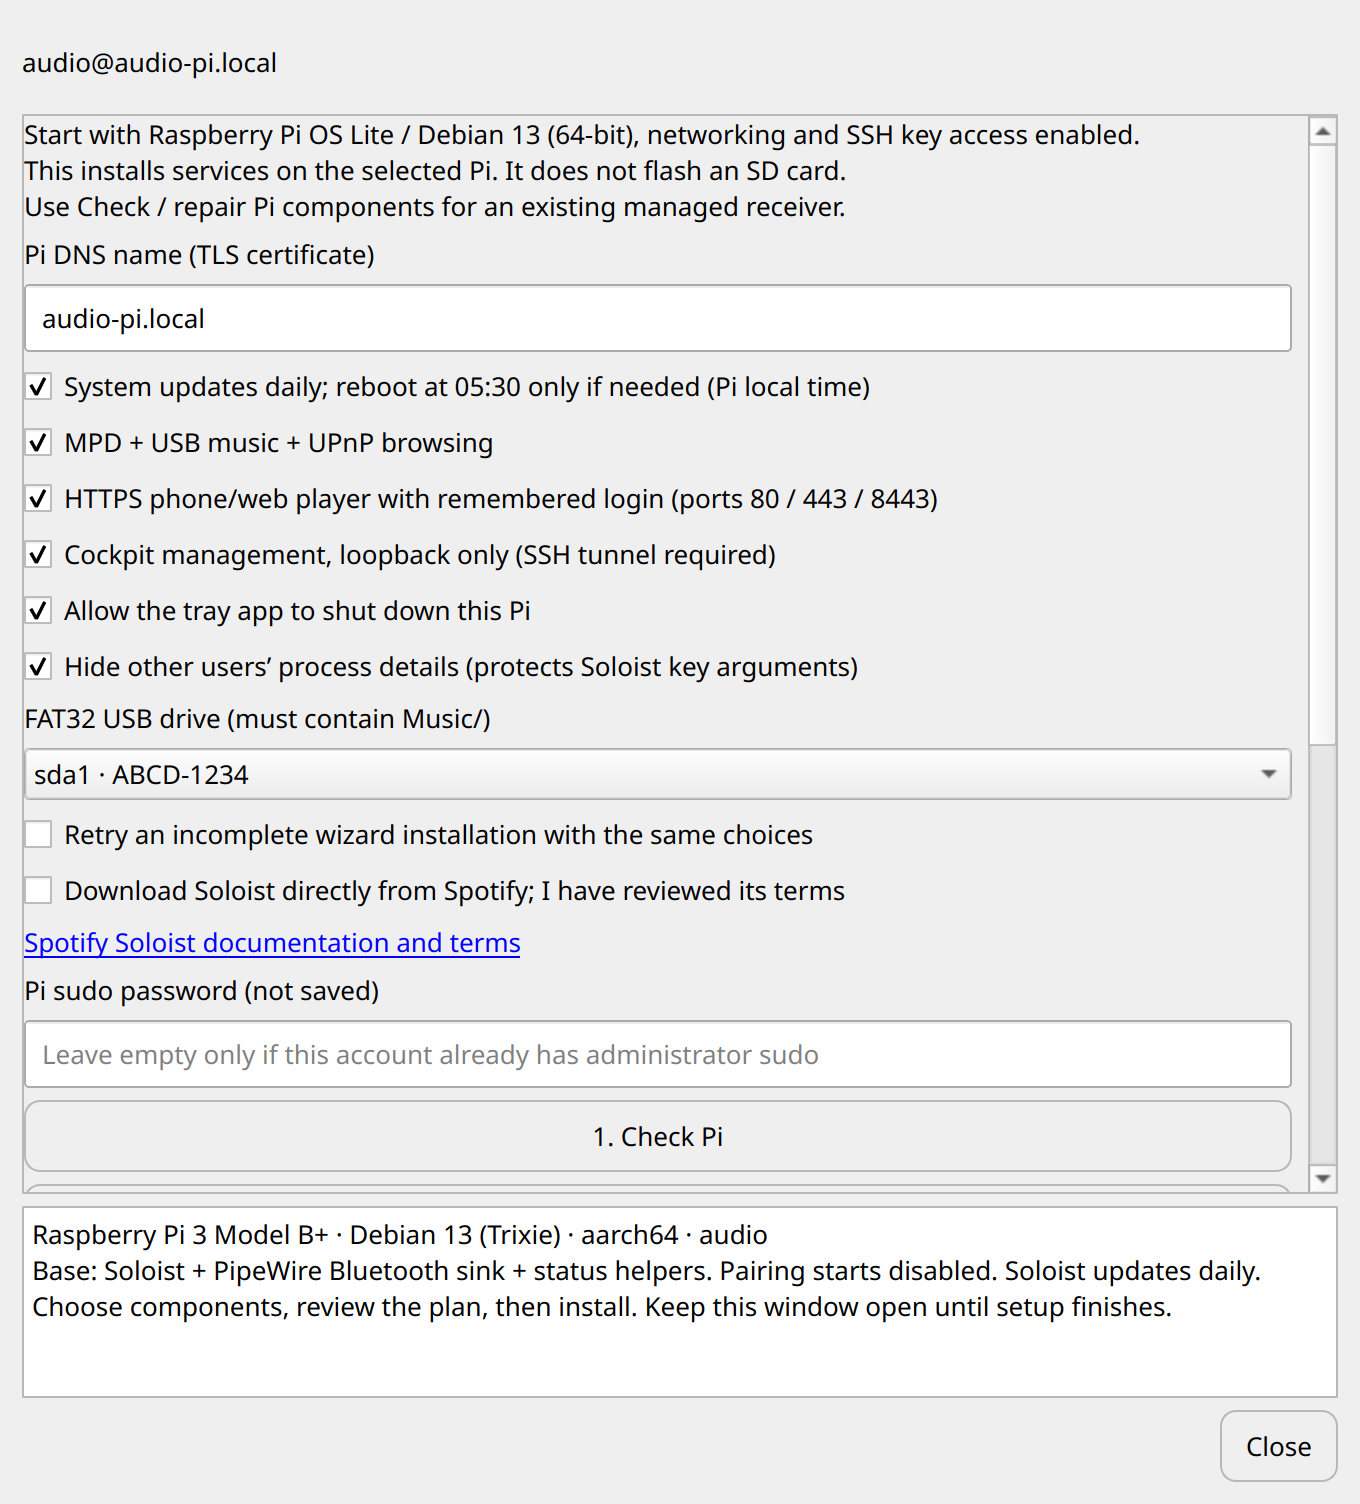
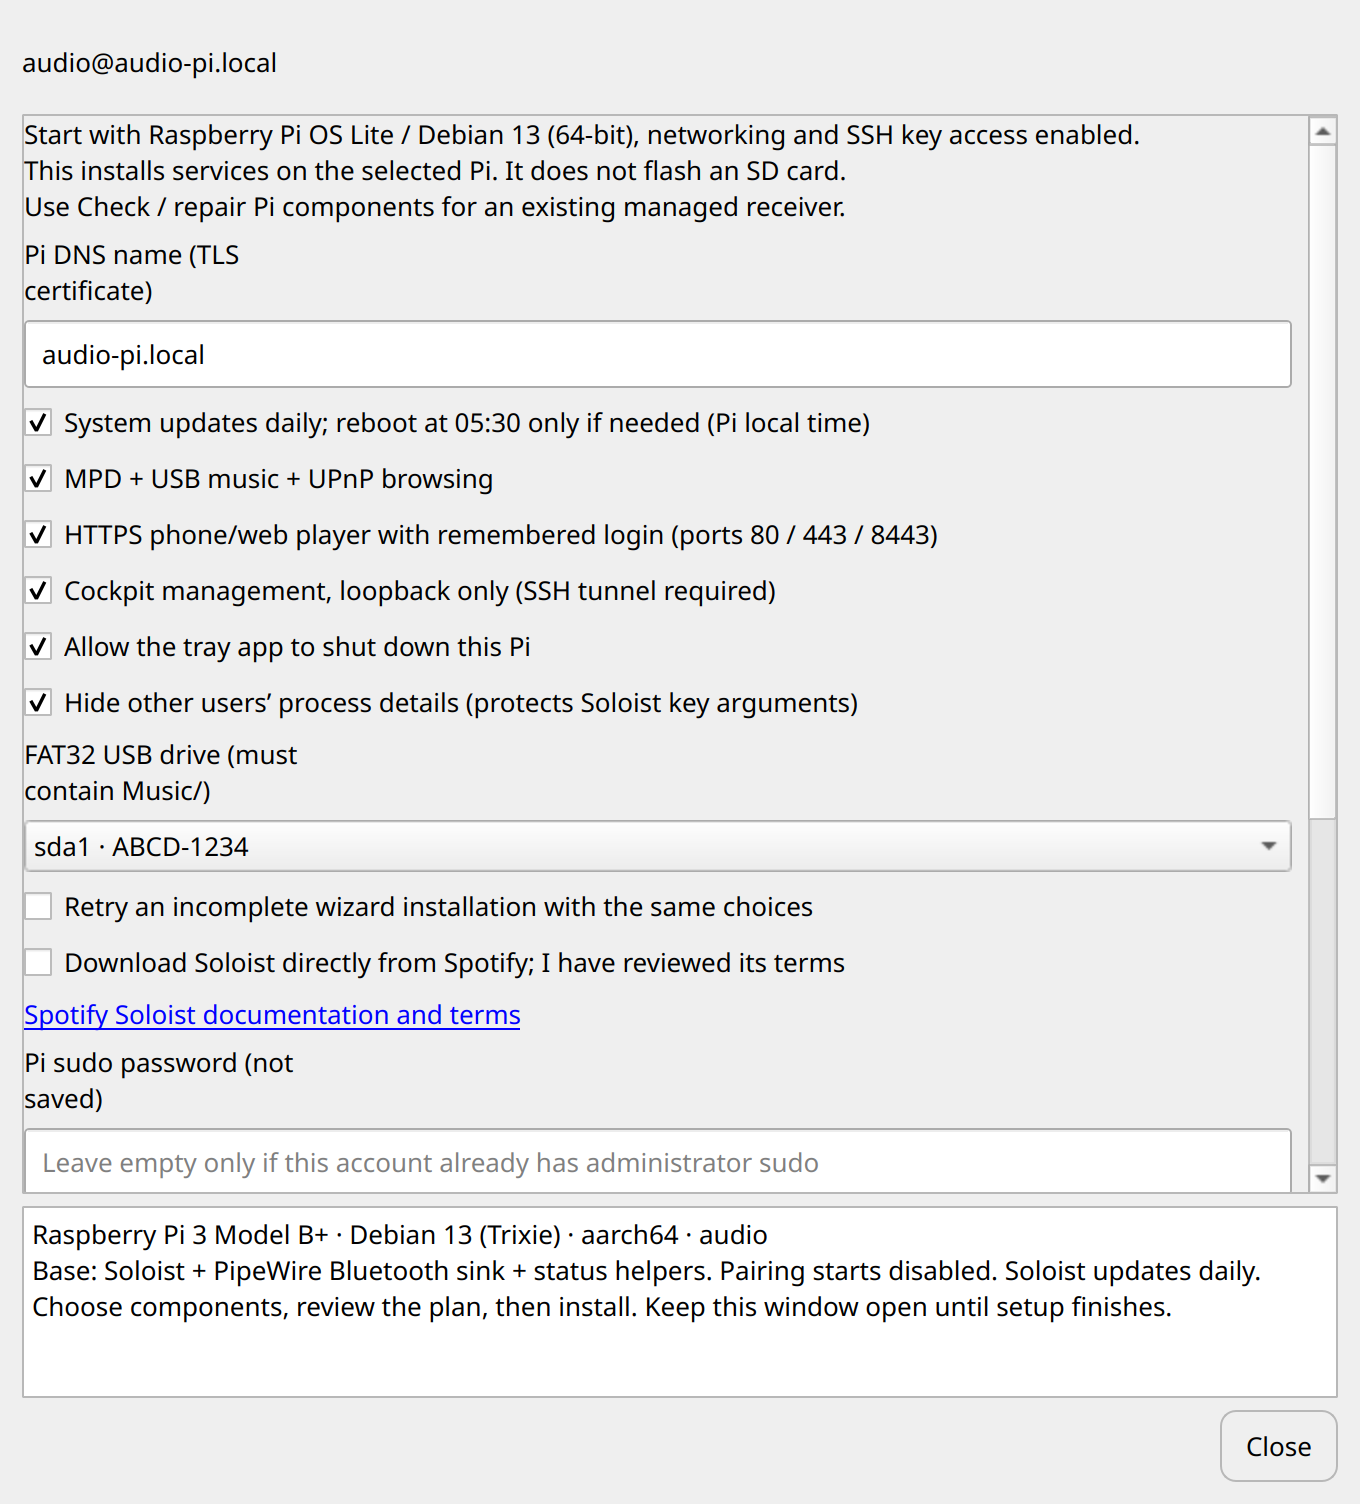
Wrap native setup action captions and preserve height-for-width layouts

Changed region(s): [[0.0, 0.1875, 0.6794, 0.7812], [0.1853, 0.1562, 0.2779, 0.1875], [0.9265, 0.5, 0.9574, 0.5625]]

diff --git a/setup_ui.py b/setup_ui.py
@@ -1,13 +1,13 @@
 """One-time receiver setup with explicit plan review and masked sudo authentication."""
 from i18n import tr, translate_standard_buttons
 from PySide6.QtCore import QThread, Signal, Qt
-from PySide6.QtWidgets import (QComboBox, QDialog, QFormLayout, QScrollArea, QWidget,
+from PySide6.QtWidgets import (QComboBox, QDialog, QFormLayout, QScrollArea, QWidget, QSizePolicy,
     QLabel, QLineEdit, QPushButton, QPlainTextEdit, QVBoxLayout, QHBoxLayout)
 
 import provision
 from core import UnknownHost, display_text, trust_host
 from setup_plan import validate_plan
-from ui_style import LocalizedMessageBox as QMessageBox, get_text, exec_dialog, WrappedCheckBox, StableLabel
+from ui_style import LocalizedMessageBox as QMessageBox, get_text, exec_dialog, WrappedCheckBox, WrappedPushButton, StableLabel
 
 
 class Task(QThread):
@@ -48,6 +48,9 @@ class SetupDialog(QDialog):
                        'This installs services on the selected Pi. It does not flash an SD card.\n'
                        'Use Check / repair Pi components for an existing managed receiver.'))
         intro.setWordWrap(True)
+        policy = intro.sizePolicy()
+        policy.setHorizontalPolicy(QSizePolicy.Policy.Ignored)
+        intro.setSizePolicy(policy)
         layout.addWidget(intro)
         self.target = StableLabel(display_text(config['username'] + '@' + config['host']), lines=2)
         self.target.setTextFormat(Qt.TextFormat.PlainText)
@@ -75,12 +78,19 @@ class SetupDialog(QDialog):
         form.addRow(self.terms)
         terms = QLabel('<a href="https://developer.spotify.com/documentation/soloist">' + tr('Spotify Soloist documentation and terms') + '</a>')
         terms.setWordWrap(True)
+        policy = terms.sizePolicy()
+        policy.setHorizontalPolicy(QSizePolicy.Policy.Ignored)
+        terms.setSizePolicy(policy)
         terms.setOpenExternalLinks(True)
         form.addRow(terms)
         self.password = QLineEdit()
         self.password.setEchoMode(QLineEdit.EchoMode.Password)
         self.password.setPlaceholderText(tr('Leave empty only if this account already has administrator sudo'))
         form.addRow(tr('Pi sudo password (not saved)'), self.password)
+        for row in range(form.rowCount()):
+            item = form.itemAt(row, QFormLayout.ItemRole.LabelRole)
+            if item is not None and isinstance(item.widget(), QLabel):
+                item.widget().setWordWrap(True)
         layout.addLayout(form)
         self.web.setEnabled(False)
         self.usb.setEnabled(False)
@@ -91,8 +101,8 @@ class SetupDialog(QDialog):
         self.log.setMinimumHeight(64)
         self.log.setMaximumHeight(96)
         outer.addWidget(self.log)
-        self.check = QPushButton(tr('1. Check Pi'))
-        self.install_button = QPushButton(tr('2. Review and install…'))
+        self.check = WrappedPushButton(tr('1. Check Pi'))
+        self.install_button = WrappedPushButton(tr('2. Review and install…'))
         self.install_button.setEnabled(False)
         self.close_button = QPushButton(tr('Close'))
         for button in (self.check, self.install_button):
@@ -102,7 +112,7 @@ class SetupDialog(QDialog):
         close_row.addWidget(self.close_button)
         outer.addLayout(close_row)
         self.check.clicked.connect(self.preflight)
-        self.components_button = QPushButton(tr('Check / repair existing Pi components…'))
+        self.components_button = WrappedPushButton(tr('Check / repair existing Pi components…'))
         layout.addWidget(self.components_button)
         self.components_button.clicked.connect(self.components)
         self.install_button.clicked.connect(self.install)
@@ -110,9 +120,9 @@ class SetupDialog(QDialog):
         audio = QFormLayout()
         audio.setRowWrapPolicy(QFormLayout.RowWrapPolicy.WrapLongRows)
         self.outputs = QComboBox()
-        self.output_refresh = QPushButton(tr('Refresh audio outputs'))
-        self.output_select = QPushButton(tr('Use output'))
-        self.key_button = QPushButton(tr('Set Soloist API key…'))
+        self.output_refresh = WrappedPushButton(tr('Refresh audio outputs'))
+        self.output_select = WrappedPushButton(tr('Use output'))
+        self.key_button = WrappedPushButton(tr('Set Soloist API key…'))
         self.key_button.setEnabled(False)
         layout.addWidget(self.key_button)
         self.key_button.clicked.connect(self.set_key)

diff --git a/tests/test_setup_layout.py b/tests/test_setup_layout.py
@@ -5,7 +5,7 @@ import unittest
 from unittest.mock import Mock, patch
 from PySide6.QtCore import QPoint, QRect, Qt
 from PySide6.QtTest import QTest
-from PySide6.QtWidgets import QApplication, QScrollArea, QWidget
+from PySide6.QtWidgets import QApplication, QScrollArea, QWidget, QVBoxLayout, QLabel
 from i18n import available_languages, set_language
 from setup_ui import SetupDialog
 from ui_style import STYLE
@@ -44,6 +44,10 @@ class SetupLayout(unittest.TestCase):
                             if widget.minimumSizeHint().width() > scroll.viewport().width()]
                 self.assertEqual(scroll.horizontalScrollBar().maximum(), 0, overflow)
                 self.assertGreater(scroll.verticalScrollBar().maximum(), 0)
+                for label in scroll.findChildren(QLabel):
+                    if label.hasHeightForWidth():
+                        self.assertGreater(label.width(), 20)
+                        self.assertGreaterEqual(label.height(), label.heightForWidth(label.width()))
                 for control in (dialog.close_button, dialog.log):
                     top_left = control.mapTo(dialog, QPoint(0, 0))
                     self.assertTrue(dialog.rect().contains(QRect(top_left, control.size())))
@@ -97,6 +101,31 @@ class SetupLayout(unittest.TestCase):
         self.assertTrue(choice.isChecked())
         self.assertTrue(choice.hasHeightForWidth())
         self.assertGreaterEqual(choice.heightForWidth(240), choice.heightForWidth(500))
+
+    def test_long_action_caption_wraps_and_preserves_button_activation(self):
+        from PySide6.QtTest import QSignalSpy
+        from ui_style import WrappedPushButton
+        parent = QWidget()
+        parent.setStyleSheet(STYLE)
+        layout = QVBoxLayout(parent)
+        button = WrappedPushButton('A long translated action caption ' * 12)
+        layout.addWidget(button)
+        layout.addStretch()
+        self.addCleanup(parent.deleteLater)
+        self.addCleanup(parent.close)
+        parent.resize(300, 600)
+        parent.show(); self.app.processEvents()
+        self.assertGreaterEqual(button.height(), button.heightForWidth(button.width()))
+        self.assertGreaterEqual(button.label.height(), button.label.heightForWidth(button.label.width()))
+        clicked = QSignalSpy(button.clicked)
+        self.assertLess(button.minimumSizeHint().width(), 280)
+        self.assertGreater(button.heightForWidth(280), button.heightForWidth(560))
+        QTest.mouseClick(button.label, Qt.MouseButton.LeftButton)
+        self.assertEqual(clicked.count(), 1)
+        button.setFocus(); QTest.keyClick(button, Qt.Key.Key_Space)
+        self.assertEqual(clicked.count(), 2)
+        self.assertIn('translated action', button.accessibleName())
+
 
     def test_small_screen_scrolling_does_not_change_setup_choices_or_start_requests(self):
         import provision

diff --git a/ui_style.py b/ui_style.py
@@ -17,8 +17,14 @@ class WrappedCheckBox(QCheckBox):
         self.label = QLabel(text, self)
         self.label.setTextFormat(Qt.TextFormat.PlainText)
         self.label.setWordWrap(True)
+        policy = self.label.sizePolicy()
+        policy.setHorizontalPolicy(QSizePolicy.Policy.Ignored)
+        self.label.setSizePolicy(policy)
         self.label.setAttribute(Qt.WidgetAttribute.WA_TransparentForMouseEvents)
         self.setAccessibleName(text)
+        policy = QSizePolicy(QSizePolicy.Policy.Preferred, QSizePolicy.Policy.Preferred)
+        policy.setHeightForWidth(True)
+        self.setSizePolicy(policy)
         self.row = QHBoxLayout(self)
         self.row.setSpacing(0)
         self.row.addWidget(self.label)
@@ -50,6 +56,39 @@ class WrappedCheckBox(QCheckBox):
 
     def hitButton(self, position):
         return self.rect().contains(position)
+
+
+class WrappedPushButton(QPushButton):
+    """Keep long translated actions readable without a horizontal minimum width."""
+    def __init__(self, text, parent=None):
+        super().__init__('', parent)
+        self.label = QLabel(text, self)
+        self.label.setTextFormat(Qt.TextFormat.PlainText)
+        self.label.setWordWrap(True)
+        policy = self.label.sizePolicy()
+        policy.setHorizontalPolicy(QSizePolicy.Policy.Ignored)
+        self.label.setSizePolicy(policy)
+        self.label.setAlignment(Qt.AlignmentFlag.AlignCenter)
+        self.label.setAttribute(Qt.WidgetAttribute.WA_TransparentForMouseEvents)
+        self.setAccessibleName(text)
+        policy = QSizePolicy(QSizePolicy.Policy.Preferred, QSizePolicy.Policy.Preferred)
+        policy.setHeightForWidth(True)
+        self.setSizePolicy(policy)
+        self.row = QHBoxLayout(self)
+        self.row.setContentsMargins(12, 8, 12, 8)
+        self.row.addWidget(self.label)
+
+    def sizeHint(self):
+        return self.row.sizeHint().expandedTo(super().sizeHint())
+
+    def minimumSizeHint(self):
+        return self.row.minimumSize().expandedTo(super().sizeHint())
+
+    def hasHeightForWidth(self):
+        return True
+
+    def heightForWidth(self, width):
+        return max(self.row.totalHeightForWidth(width), super().sizeHint().height())
 
 
 class ActivatedListWidget(QListWidget):

diff --git a/docs/RELEASE_READINESS.md b/docs/RELEASE_READINESS.md
@@ -17,9 +17,9 @@ decision changes the supported platform/feature set.
 
 | Gate | Current evidence / remaining work |
 | --- | --- |
-| Desktop regressions | Local full suite: 325 tests, 3 existing tool/platform skips. Required PR security/Linux/Windows/both-macOS checks must also pass for the candidate commit. |
+| Desktop regressions | Local full suite: 326 tests, 3 existing tool/platform skips. Required PR security/Linux/Windows/both-macOS checks must also pass for the candidate commit. |
 | Small-screen setup | Fixed: choices and tools scroll, checkbox labels wrap, identity/progress/Close remain visible. All 19 languages checked at a 640×480 logical work area; focused tests repeated at 100%, 150%, 200% Qt scaling. |
-| Ubuntu graphical runtime | Actual X11/XWayland Qt backend: 20 interaction tests plus 5 layout tests pass with isolated settings/mocked receiver calls. This does not certify every native menu/focus/SSH-agent interaction. |
+| Ubuntu graphical runtime | Actual X11/XWayland Qt backend: 20 interaction tests plus 6 layout tests pass with isolated settings/mocked receiver calls. This does not certify every native menu/focus/SSH-agent interaction. |
 | ARM virtual smoke matrix | Re-run 2026-10-29: 35 tests per image, no failures/errors, 1 skip each; supported ARM64 accepted, mixed ARM64-kernel/armhf-userspace rejected. Real D-Bus harness skipped where dependencies are absent. [Exact results](testing/virtual-images-2026-10-29.json). No full systemd installer or audio test. |
 | Existing receiver read-only check | Reference receiver reachable, managed/supported; all component configuration/binaries present. EQ was installed but bypassed at inspection. Service flags are not proof of audible playback, repair or reboot persistence. No settings/services changed. |
 | Native package validation | All four manual build/smoke jobs must pass on the candidate source. Verify every downloaded SHA256 and compare merged source tree before release; native signing limitations remain explicit. |
